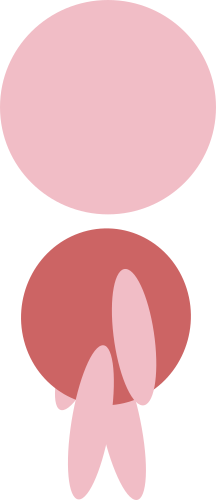
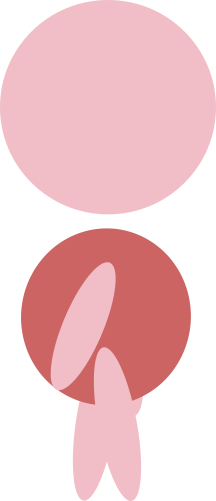
import assets

diff --git a/figure.py b/figure.py
@@ -1,3 +1,5 @@
+import os
+
 import pygame
 
 FIG_SIZE = 30
@@ -49,13 +51,22 @@ class FigureRect(Figure):
 
 
 class FigurePink(pygame.sprite.Sprite):
-    def __init__(self, image_file, pos, settings):
+    def __init__(self, pos, settings):
         pygame.sprite.Sprite.__init__(self)
         self.settings = settings
 
         self.velocity = 0
         self.is_jump = False
-        self.image = self.load_figure_image(image_file)
+        self.left = False
+        self.right = False
+
+        self.animations = {'left': [], 'right': [],
+                           'jump_left': [], 'jump_right': [], 'jump': [],
+                           'stand': []}
+        self.load_figure_assets()
+        self.animation_speed = 0.1
+        self.animation_index = 0
+        self.image = self.animations['stand'][0]
 
         self.rect = self.image.get_rect()
         self.set_location(pos)
@@ -89,12 +100,46 @@ class FigurePink(pygame.sprite.Sprite):
         self.x = loc[0]
         self.y = self.settings.can_h - self.height - self.settings.gd_thick
 
-    def load_figure_image(self, image_file):
-        image = pygame.image.load(image_file)
-        scale = image.get_width() / self.settings.figure_width
-        figure_width = self.settings.figure_width
-        figure_height = int(image.get_height() / scale)
+    def load_figure_assets(self):
+        self.load_assets_from_directory('jump_left')
+        self.load_assets_from_directory('jump_right')
+        self.load_assets_from_directory('jump')
+        self.load_assets_from_directory('left')
+        self.load_assets_from_directory('right')
+        self.load_assets_from_directory('stand')
 
-        return pygame.transform.scale(image,
-                                      (figure_width,
-                                       figure_height))
+    def load_assets_from_directory(self, directory):
+        path = os.getcwd() + '/assets/girl/' + directory + '/'
+        files = [path + name for name in os.listdir(path)]
+
+        for file in files:
+            image = pygame.image.load(file)
+            # scale = image.get_width() / self.settings.figure_width
+            # figure_width = self.settings.figure_width
+            figure_width = int(image.get_width() / 25)
+            figure_height = int(image.get_height() / 25)
+            self.animations[directory].append(pygame.transform.scale(image,
+                                                                     (figure_width,
+                                                                      figure_height)))
+
+    def animation(self):
+        status = self.status()
+        self.animation_index += self.animation_speed
+        if self.animation_index >= len(self.animations[status]):
+            self.animation_index = 0
+        self.image = self.animations[status][int(self.animation_index)]
+
+    def status(self):
+        if self.is_jump and self.left:
+            return 'jump_left'
+        if self.is_jump and self.right:
+            return 'jump_right'
+        if self.left:
+            return 'left'
+        if self.right:
+            return 'right'
+        if self.is_jump:
+            return 'jump'
+        return 'stand'
+
+

diff --git a/controller.py b/controller.py
@@ -13,9 +13,9 @@ def key_events(keys, figure, settings, platforms, background):
             figure.velocity = settings.jump_speed
             jump_up(figure, settings)
     if keys[pygame.K_LEFT]:
-        move_left(figure, settings, platforms, background)
+        move_left(figure, settings)
     if keys[pygame.K_RIGHT]:
-        move_right(figure, settings, platforms, background)
+        move_right(figure, settings)
     if keys[pygame.K_q]:
         settings.active = False
 
@@ -25,11 +25,15 @@ def update_player(figure, settings, platforms):
     If the player collides with the jumping bar on the top surface,
     then it will stay on the bar, otherwise apply gravity.
     """
+    figure.animation()
     diff, collision = check_collision_next_step(figure, settings, platforms)
     if collision:
         figure.is_jump = False
     else:
         jump_up(figure, settings)
+
+    figure.left = False
+    figure.right = False
 
 
 def jump_up(figure, settings, diffn=1):
@@ -56,13 +60,14 @@ def check_collision_next_step(figure, settings, bars):
     return diff, collision
 
 
-def move_left(figure, settings, platforms, background):
+def move_left(figure, settings):
+    figure.left = True
     figure.x -= settings.h_speed
 
 
-def move_right(figure, settings, platforms, background):
+def move_right(figure, settings):
+    figure.right = True
     figure.x += settings.h_speed
-
 
 
 def check_collision(y, velocity, figure, bars):

diff --git a/util.py b/util.py
@@ -30,7 +30,7 @@ def generate_platforms(settings):
     file_path = directory + '/assets/platforms/'
     file_names = [file_path + name for name in os.listdir(directory + '/assets/platforms/')]
     # Generate ground
-    ground_path = directory + '/assets/foreground.png'
+    ground_path = directory + '/assets/platforms/ground.png'
     group.add(Ground(ground_path, [0, 0], settings))
     # Place the bar
     for i in range(len(file_names)):
@@ -45,8 +45,7 @@ def generate_platforms(settings):
 def generate_player(settings):
     # initial height = can_h - ground_h - figure_h
     init_location = [20, 0]
-    return FigurePink(image_file="assets/figure/pink1.png",
-                      pos=init_location,
+    return FigurePink(pos=init_location,
                       settings=settings)
 
 

diff --git a/settings.py b/settings.py
@@ -26,7 +26,7 @@ class Settings:
         self.acc = 1
 
         # Figure settings
-        self.figure_width = 20
+        self.figure_width = 30
 
         # Ground settings
         self.gd_height = CANVAS_H - GD_H
